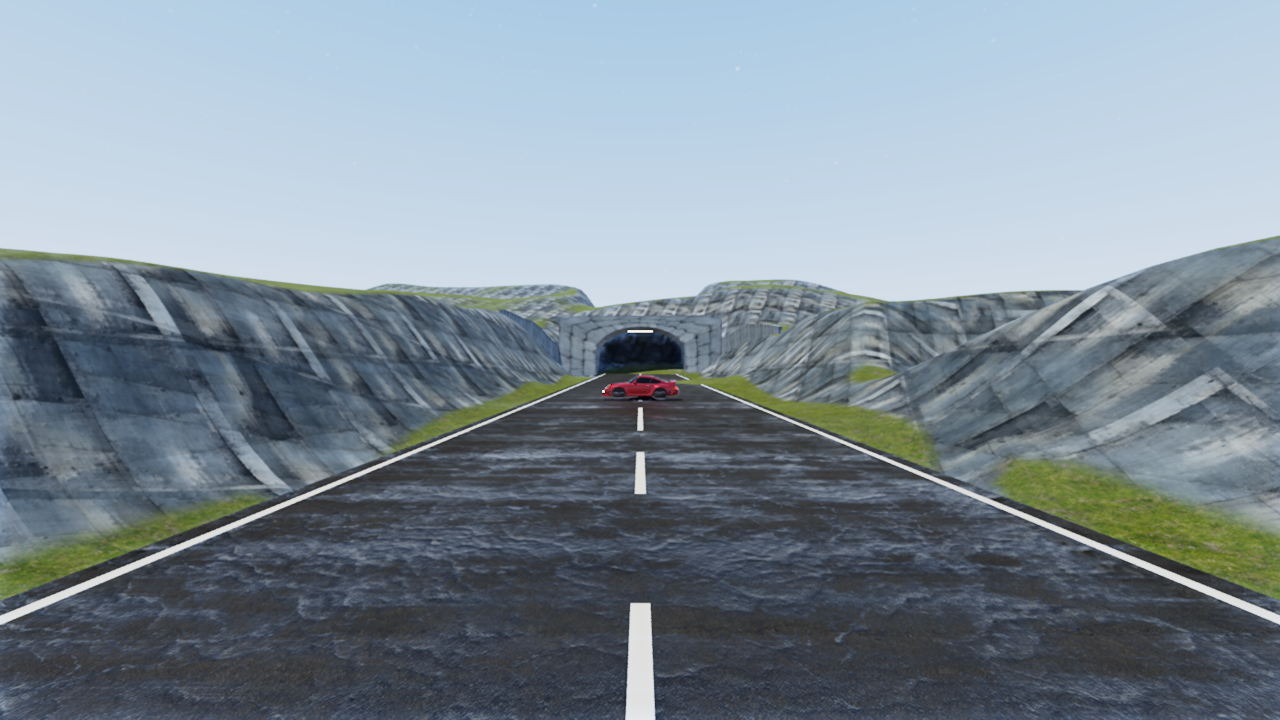
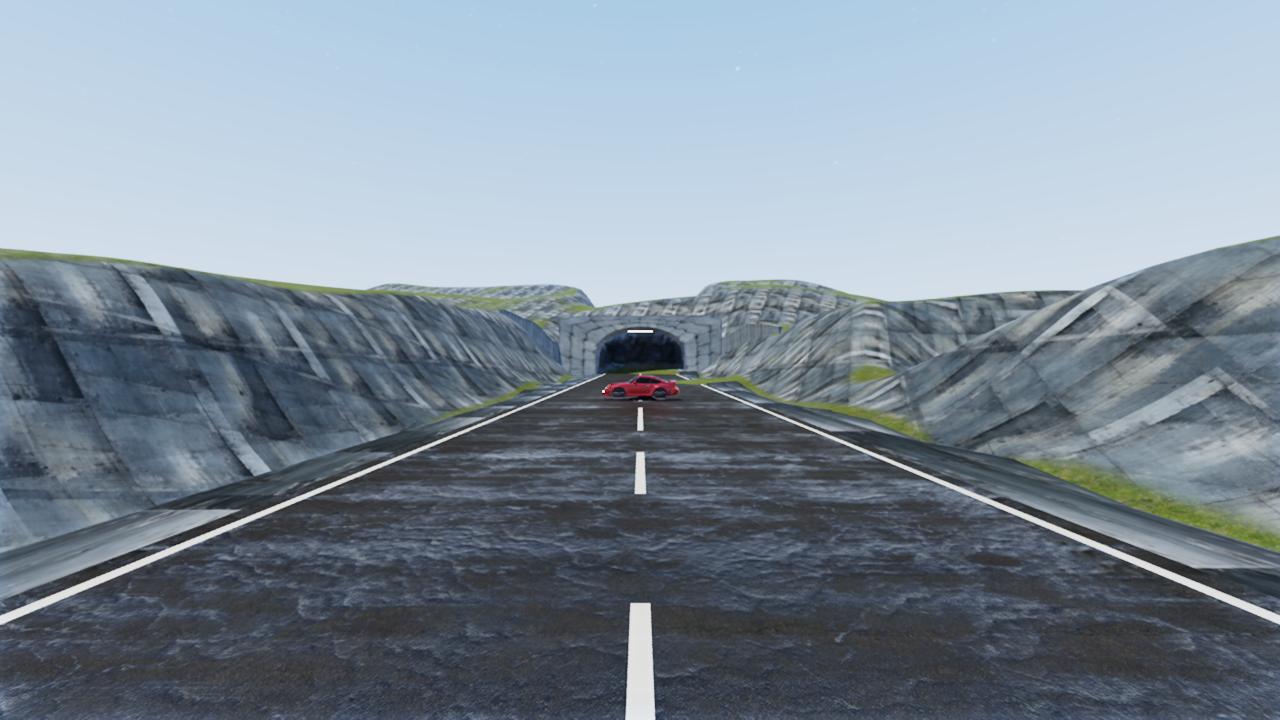
feat(tunnels): concrete shoulder + graded embankment — the hanging road edge
MY HYPOTHESIS WAS WRONG, AND MEASURING IT IS WHAT FOUND THE REAL BUG.

b34477e6 left this open with a stated guess: that the road's downhill edge hung
in the air because edgeBottom() clamps its reach to 16 m below the road datum,
so on a steep shoulder the skirt stopped short. I instrumented that clamp before
touching it. It never fires:

    edge samples 640, CLAMPED at the 16 m reach limit: 0, worst shoulder drop 0.00 m

Zero. The ground at the road edge is never below the road at all, so the skirt
is always fully buried and cannot be the thing showing. The theory is dead.

WHERE THE VOID ACTUALLY IS. The corridor's flat floor runs to kTcCorridorHalfW
(8.8 m) but the ribbon is only kTcRoadHalfWidth (6 m) — and a corridor only ever
LOWERS ground, never raises it. So on a downhill shoulder the natural terrain
sits BELOW the corridor floor and nothing covers the step between them. The gap
is outboard of the road edge, which is why probing at the edge found nothing.

THE FIX, which is what a road actually does. Roads do not end in a vertical
face: they carry a hard shoulder and then a graded EMBANKMENT battered down to
meet grade. The ribbon now emits a 1.5 m concrete shoulder at road level and
then marches a batter outward at ~1:1.25 until it reaches real ground, sampled
per frame per rail. Separate draw with its own material (cc_porous_cement) so
the edge reads as CONCRETE against the asphalt rather than as more road.
[…]

Changed region(s): [[0.5312, 0.5194, 1.0, 0.825], [0.0, 0.5194, 0.4688, 0.825]]

diff --git a/app/tunnel_corridor.cpp b/app/tunnel_corridor.cpp
@@ -590,6 +590,7 @@ bool TunnelCorridorWorld::build(Scene& scene, x3::rhi::IRenderDevice& device,
     const SurfaceSet& boreSet   = m_surf.get(device, boreSetName);
     const SurfaceSet& portalSet = m_surf.get(device, "mw_concrete_panels_a");
     const SurfaceSet& roadSet   = m_surf.get(device, "rd_asphalt_01");
+    const SurfaceSet& shoulderSet = m_surf.get(device, "cc_porous_cement");
     if (!boreSet.ok || !portalSet.ok)
         x3::logWarn("tunnel corridor: surface_library set(s) unavailable — "
                     "falling back to the procedural checker concrete");
@@ -660,6 +661,7 @@ bool TunnelCorridorWorld::build(Scene& scene, x3::rhi::IRenderDevice& device,
     {
         constexpr float kSlabProud = 0.14f;
         MeshBuf mb;
+        MeshBuf shoulder;   // hard shoulder + graded batter (own material)
         const float up[3] = { 0.0f, 1.0f, 0.0f };
         auto P = [&](const Frame& f, float r, float u, float out[3]) {
             out[0] = f.p[0] + right[0]*r + up[0]*u;
@@ -699,6 +701,81 @@ bool TunnelCorridorWorld::build(Scene& scene, x3::rhi::IRenderDevice& device,
             const float nD[3] = { 0, -1, 0 };
             mb.quad(aLd, aRd, bRd, bLd, nD, 0.0f, 1.0f, a.s * 0.08f, b.s * 0.08f);
         }
+
+        // ---- SHOULDER + EMBANKMENT ------------------------------------------
+        // MEASURED FIRST, and it killed my own theory: I thought the hanging
+        // edge was the skirt failing to reach the ground past a 16 m clamp.
+        // Instrumenting edgeBottom said otherwise — 640 edge samples, ZERO
+        // clamped, worst shoulder drop 0.00 m. The ground at the road edge is
+        // never below the road, so the skirt is always buried and can't be what
+        // is showing.
+        //
+        // The void is FURTHER OUT. The corridor's flat floor runs to
+        // kTcCorridorHalfW (8.8 m) but the ribbon is only kTcRoadHalfWidth
+        // (6 m), and the corridor only ever LOWERS ground — so on a downhill
+        // shoulder the natural terrain sits below the floor and nothing covers
+        // the step between them. That gap is the triangular void.
+        //
+        // Roads do not end in a vertical face. They carry a concrete shoulder
+        // and then a graded EMBANKMENT battered down to meet grade. That is
+        // what this emits: a hard shoulder strip at road level, then a batter
+        // marched outward at kBatter until it reaches the real ground.
+        {
+            constexpr float kShoulderW = 1.5f;   // concrete hard shoulder
+            constexpr float kBatter    = 0.80f;  // fall per metre out (~1:1.25, tighter)
+            constexpr int   kSteps     = 5;
+            constexpr float kStepOut   = 1.5f;
+            auto embankEdge = [&](const Frame& f, float sideSign, float outM, float& y) {
+                const float lat = sideSign * (hw + outM);
+                const float ex = f.p[0] + right[0]*lat, ez = f.p[2] + right[2]*lat;
+                const float g = terrainHeightAtWorld(ex, ez);
+                y = std::max(y, g);            // never sink below real ground
+                float o[3] = { ex, y, ez };
+                (void)o; return std::pair<float,float>(ex, ez);
+            };
+            (void)embankEdge;
+            for (size_t j = 0; j + 1 < roadFrames.size(); ++j) {
+                const Frame& a = roadFrames[j]; const Frame& b = roadFrames[j+1];
+                for (int side = -1; side <= 1; side += 2) {
+                    const float sg = (float)side;
+                    // Track the running height of the batter on each rail.
+                    float ya = a.p[1] + kSlabProud, yb = b.p[1] + kSlabProud;
+                    float oa = 0.0f;
+                    for (int st = 0; st <= kSteps; ++st) {
+                        const float o2 = (st == 0) ? kShoulderW
+                                                   : kShoulderW + (float)st * kStepOut;
+                        // Shoulder is flat; past it the batter falls away.
+                        const float dy = (st == 0) ? 0.0f : kBatter * kStepOut;
+                        const float ya2 = ya - dy, yb2 = yb - dy;
+                        const float latA = sg * (hw + oa),  latB = sg * (hw + o2);
+                        auto gAt = [&](const Frame& f, float lat) {
+                            return terrainHeightAtWorld(f.p[0] + right[0]*lat,
+                                                        f.p[2] + right[2]*lat);
+                        };
+                        // Clamp to grade: the batter stops where it meets ground.
+                        const float y0a = std::max(ya, gAt(a, latA)), y0b = std::max(yb, gAt(b, latA));
+                        const float y1a = std::max(ya2, gAt(a, latB)), y1b = std::max(yb2, gAt(b, latB));
+                        float p0[3] = { a.p[0] + right[0]*latA, y0a, a.p[2] + right[2]*latA };
+                        float p1[3] = { a.p[0] + right[0]*latB, y1a, a.p[2] + right[2]*latB };
+                        float p2[3] = { b.p[0] + right[0]*latB, y1b, b.p[2] + right[2]*latB };
+                        float p3[3] = { b.p[0] + right[0]*latA, y0b, b.p[2] + right[2]*latA };
+                        const float nUp[3] = { 0, 1, 0 };
+                        if (side < 0) shoulder.quad(p3, p2, p1, p0, nUp, 0,1, a.s*0.09f, b.s*0.09f);
+                        else          shoulder.quad(p0, p1, p2, p3, nUp, 0,1, a.s*0.09f, b.s*0.09f);
+                        ya = y1a; yb = y1b; oa = o2;
+                        // STOP AT GRADE. The batter exists to bridge road level
+                        // down to the ground; once it has met the ground there is
+                        // nothing left to bridge, and marching on just lays
+                        // concrete sheets flat over the hillside (which is what
+                        // the first version did — a quarry apron instead of a
+                        // shoulder). Both rails must have landed before we quit,
+                        // or one side of the strip tears.
+                        if (st > 0 && y1a <= gAt(a, latB) + 1e-3f
+                                   && y1b <= gAt(b, latB) + 1e-3f) break;
+                    }
+                }
+            }
+        }
         // REAL ASPHALT. The note above ("NOT WIRED, and honestly: the ROAD") is
         // now resolved: rd_asphalt_01 is a 2K albedo + tangent normal + MR set
         // built from a purchased pack, with the source's Unity HDRP maskmap
@@ -709,6 +786,16 @@ bool TunnelCorridorWorld::build(Scene& scene, x3::rhi::IRenderDevice& device,
         if (roadSet.ok) { m.alb = roadSet.albedo; m.mr = roadSet.mr; m.nrm = roadSet.normal; }
         else            { m.alb = asphaltTex;     m.mr = roughMR; }
         upload(mb, m, /*collide*/true);
+        // The shoulder/batter is its own draw so it can be CONCRETE against the
+        // asphalt — the edge has to read as a hard shoulder easing into dirt,
+        // not as more road. Collides: it is walkable/driveable-onto ground.
+        {
+            Material sm2;
+            if (shoulderSet.ok) { sm2.alb = shoulderSet.albedo; sm2.mr = shoulderSet.mr;
+                                  sm2.nrm = shoulderSet.normal; }
+            else                { sm2.alb = concreteTex; sm2.mr = wallMR; }
+            upload(shoulder, sm2, /*collide*/true);
+        }
 
         // ---- Lane markings. BL §3.4 as DATA: solid white edge lines at
         // +/-(w/2 - 0.5) every segment, dashed centre on a 5 m grid (dash 60 %).
